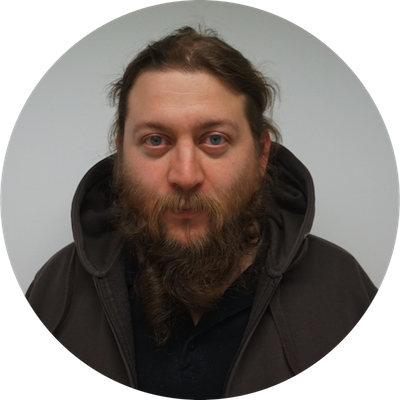
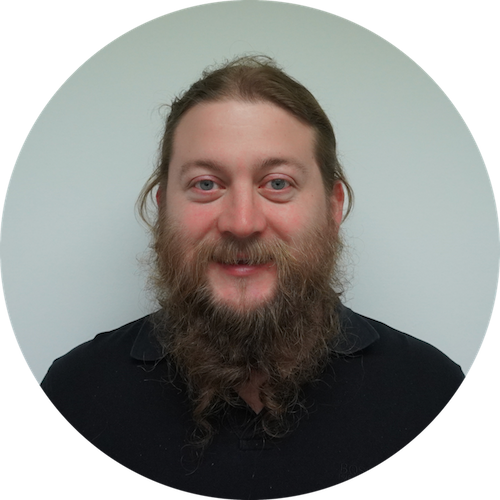
added personal webpage - Christiane; new pics for Sebastian

diff --git a/index.html b/index.html
@@ -28,6 +28,7 @@ title: Center for Integrative Bioinformatics Vienna
                 <h3>News and Events</h3>
             </div>
             <p><h4>Welcome to CIBIV!</h4></p>
+            <p>Christiane joined our group in September 2019</p>
             <p>Martin joined our group in May 2019</p>
             
             <!--<p><a href="/workshops/masamb2017/">MASAMB 2017</a> -

diff --git a/people/christiane/index.md b/people/christiane/index.md
@@ -1,0 +1,85 @@
+---
+# Do not CHANGE the layout type!
+layout: personalpage
+
+# CHANGE: name, also appears as title of the personal page
+title: Christiane Elgert
+
+# CHANGE: either Head, Postdoc, PhD student, Student, or Guest researcher
+position: Postdoc
+
+# image that will appear in the people page
+image: /assets/img/people/new_pics/christiane_1.png
+image2: /assets/img/people/new_pics/christiane_2.png
+
+# CHANGE: name appeared in publications, used to display personal publications
+pubname: C. Elgert
+
+# true to categorize publications into years
+pubyear: true
+
+# CHANGE: address lines, appeared at the beginning of personal page
+address: |
+  <strong>Email:</strong> christiane(DOT)elgert(AT)univie.ac.at<br>
+  <strong>Phone:</strong> ++43 +1 / 4277 - 74325<br>
+  <br>
+  <strong>Postal address:</strong><br>
+  Center for Integrative Bioinformatics Vienna (CIBIV)<br>
+  Max Perutz Labs<br>
+  Dr. Bohr Gasse 9<br>
+  A-1030 Wien, Austria<br>
+  
+
+# CHANGE: additional publications (e.g. before CIBIV)
+publications:
+  - authors: M. Beiglböck, M. Eder, C. Elgert and U. Schmock
+    year: 2018
+    title: "Geometry of Distribution-Constrained Optimal Stopping Problems."
+    journal: Probability Theory and Related Fields, 172(2018), pp 71-101
+    links: <a HREF="https://doi.org/10.1007/s00440-017-0805-x"></a>
+  
+  
+# CHANGE: everything below
+---
+### Research interests
+<div class="hline"></div>
+
+* Phylogenetics and Molecular Evolution
+* Algorithms and Software development
+
+
+### Education
+<div class="hline"></div>
+
+* __Oct 2014 - Mar 2019__: Ph.D. in Financial and Acturarial Mathematics, TU Wien, Vienna, Austria<br>
+* __Oct 2012 - Sept 2014__: M.Sc. in Mathematics, University of Rostock, Germany
+* __Oct 2009 - Sept 2012__: B.Sc. in Mathematics, University of Rostock, Germany
+
+
+
+### Professional Experience
+<div class="hline"></div>
+
+* __Sept 2019 - present__: Postdoctoral researcher, Center for Integrative Bioinformatics Vienna, University of Vienna, Austria.
+* __Jul 2016 - Mar 2019__: Research Assistant, Jubiläumsfonds Project no. 16549, "Aggregation of Credit Risk in Times of Financial Crises", TU Wien, Vienna, Austria
+* __Mar 2018 - Jun 2018__: Assistant of Prof. Dr. Uwe Schmock for the Exercise in "Financial Mathematics I", Salzburg Institute of Actuarial Sciences, Austria
+* __Mar 2015 - Jun 2015__: Assistant of Prof. Dr. Uwe Schmock for the Exercise in "Financial Mathematics I", Salzburg Institute of Actuarial Sciences, Austria
+* __Nov 2014 - Feb 2015__: University Assistant, Research Unit Financial and Actuarial Mathematics, TU Wien, Vienna, Austria
+* __Oct 2014 - Jun 2016__: Research Assistant, Project "Approximation von aggregierten Risiken unter Nebenbedingungen", sponsored by Arithmetica, TU Wien, Vienna, Austria (reduced working time during employment as University Assistant and during Scholarship of DAAD)
+* __Sept 2013 - Mar 2014__: Research Assistant, Institute of Computer Science, Systems Biology & Bioinformatics, University of Rostock, Germany
+* __Aug 2013__: Internship, Leibniz Institute for Farm Animal Biology (FBN), Institute of Genetics and Biometry,  Dummerstorf, Germany
+* __Nov 2012 - Apr 2013__: Student Assistant, Institute of Mathematics, University of Rostock, Germany
+      
+
+
+### Talks and Posters
+<div class="hline"></div>
+
+__2018__
+* IFAM seminar, Institute for Financial and Actuarial Mathematics, University of Liverpool, UK, Nov 2018.
+Talk: “Distribution-constrained optimal stopping problems”
+
+__2017__
+* Dresden-Wien Workshop 2017, TU Dresden, Germany, Apr 2017. 
+Talk: “Adapted dependence by optimal stopping”
+
